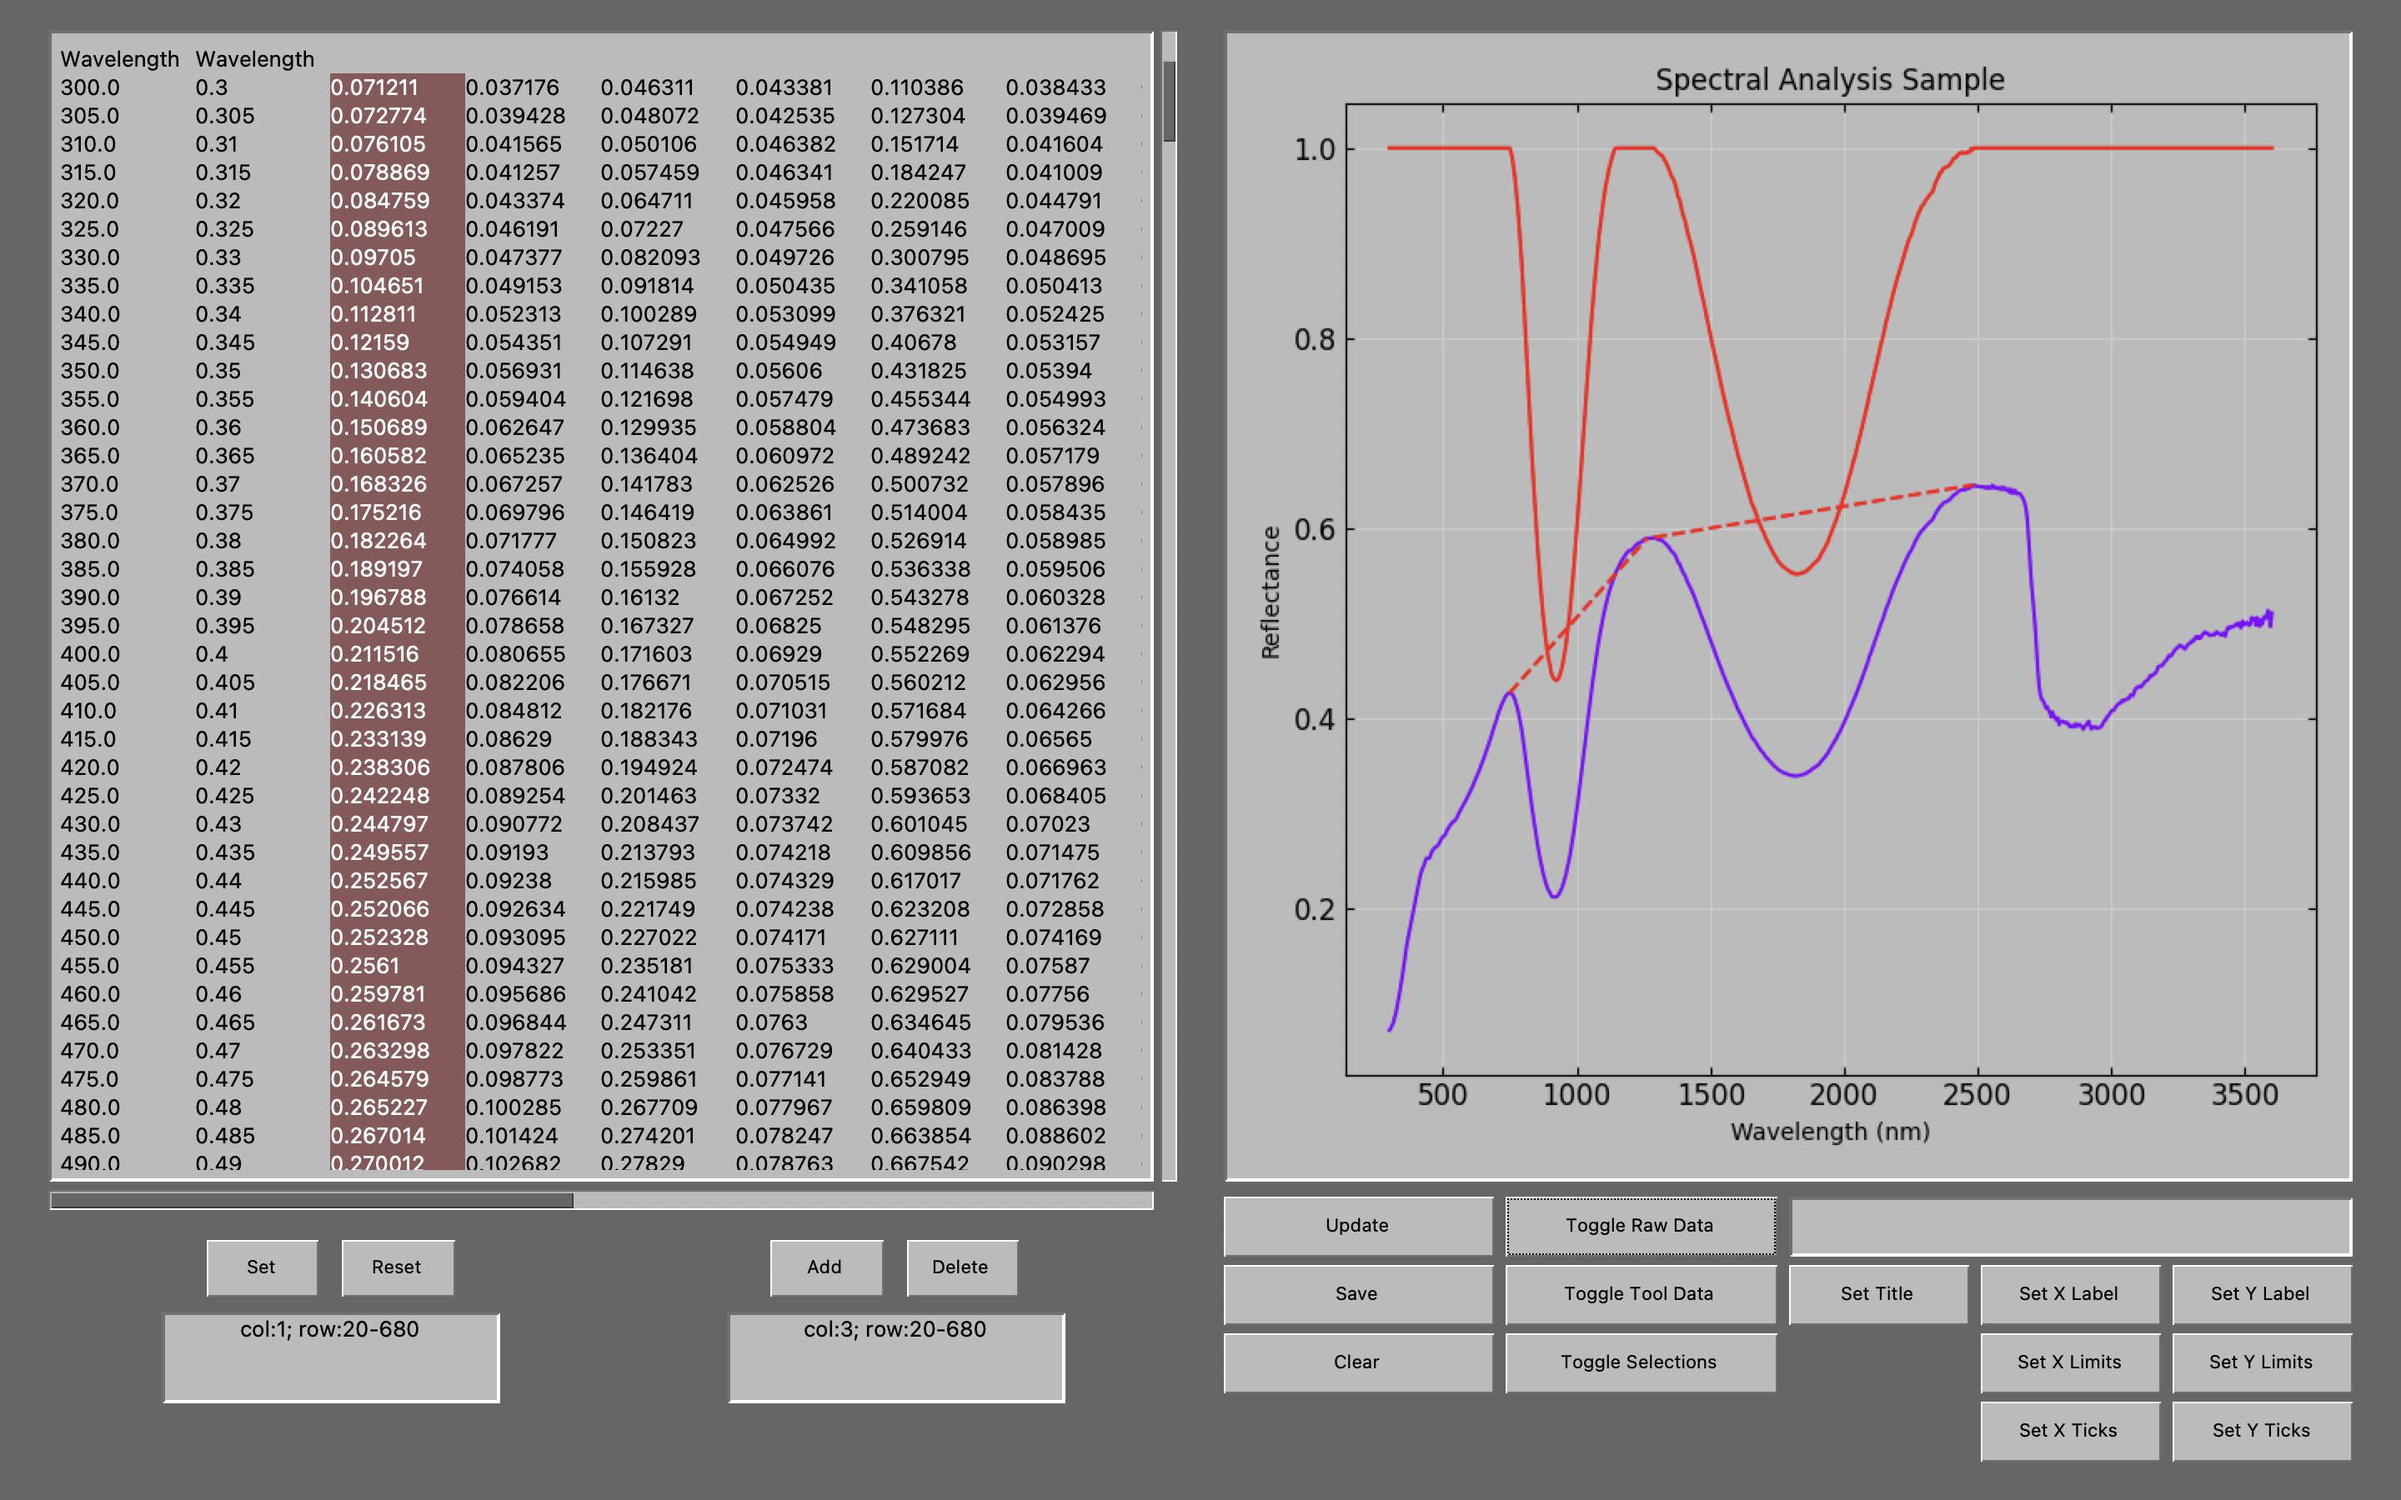
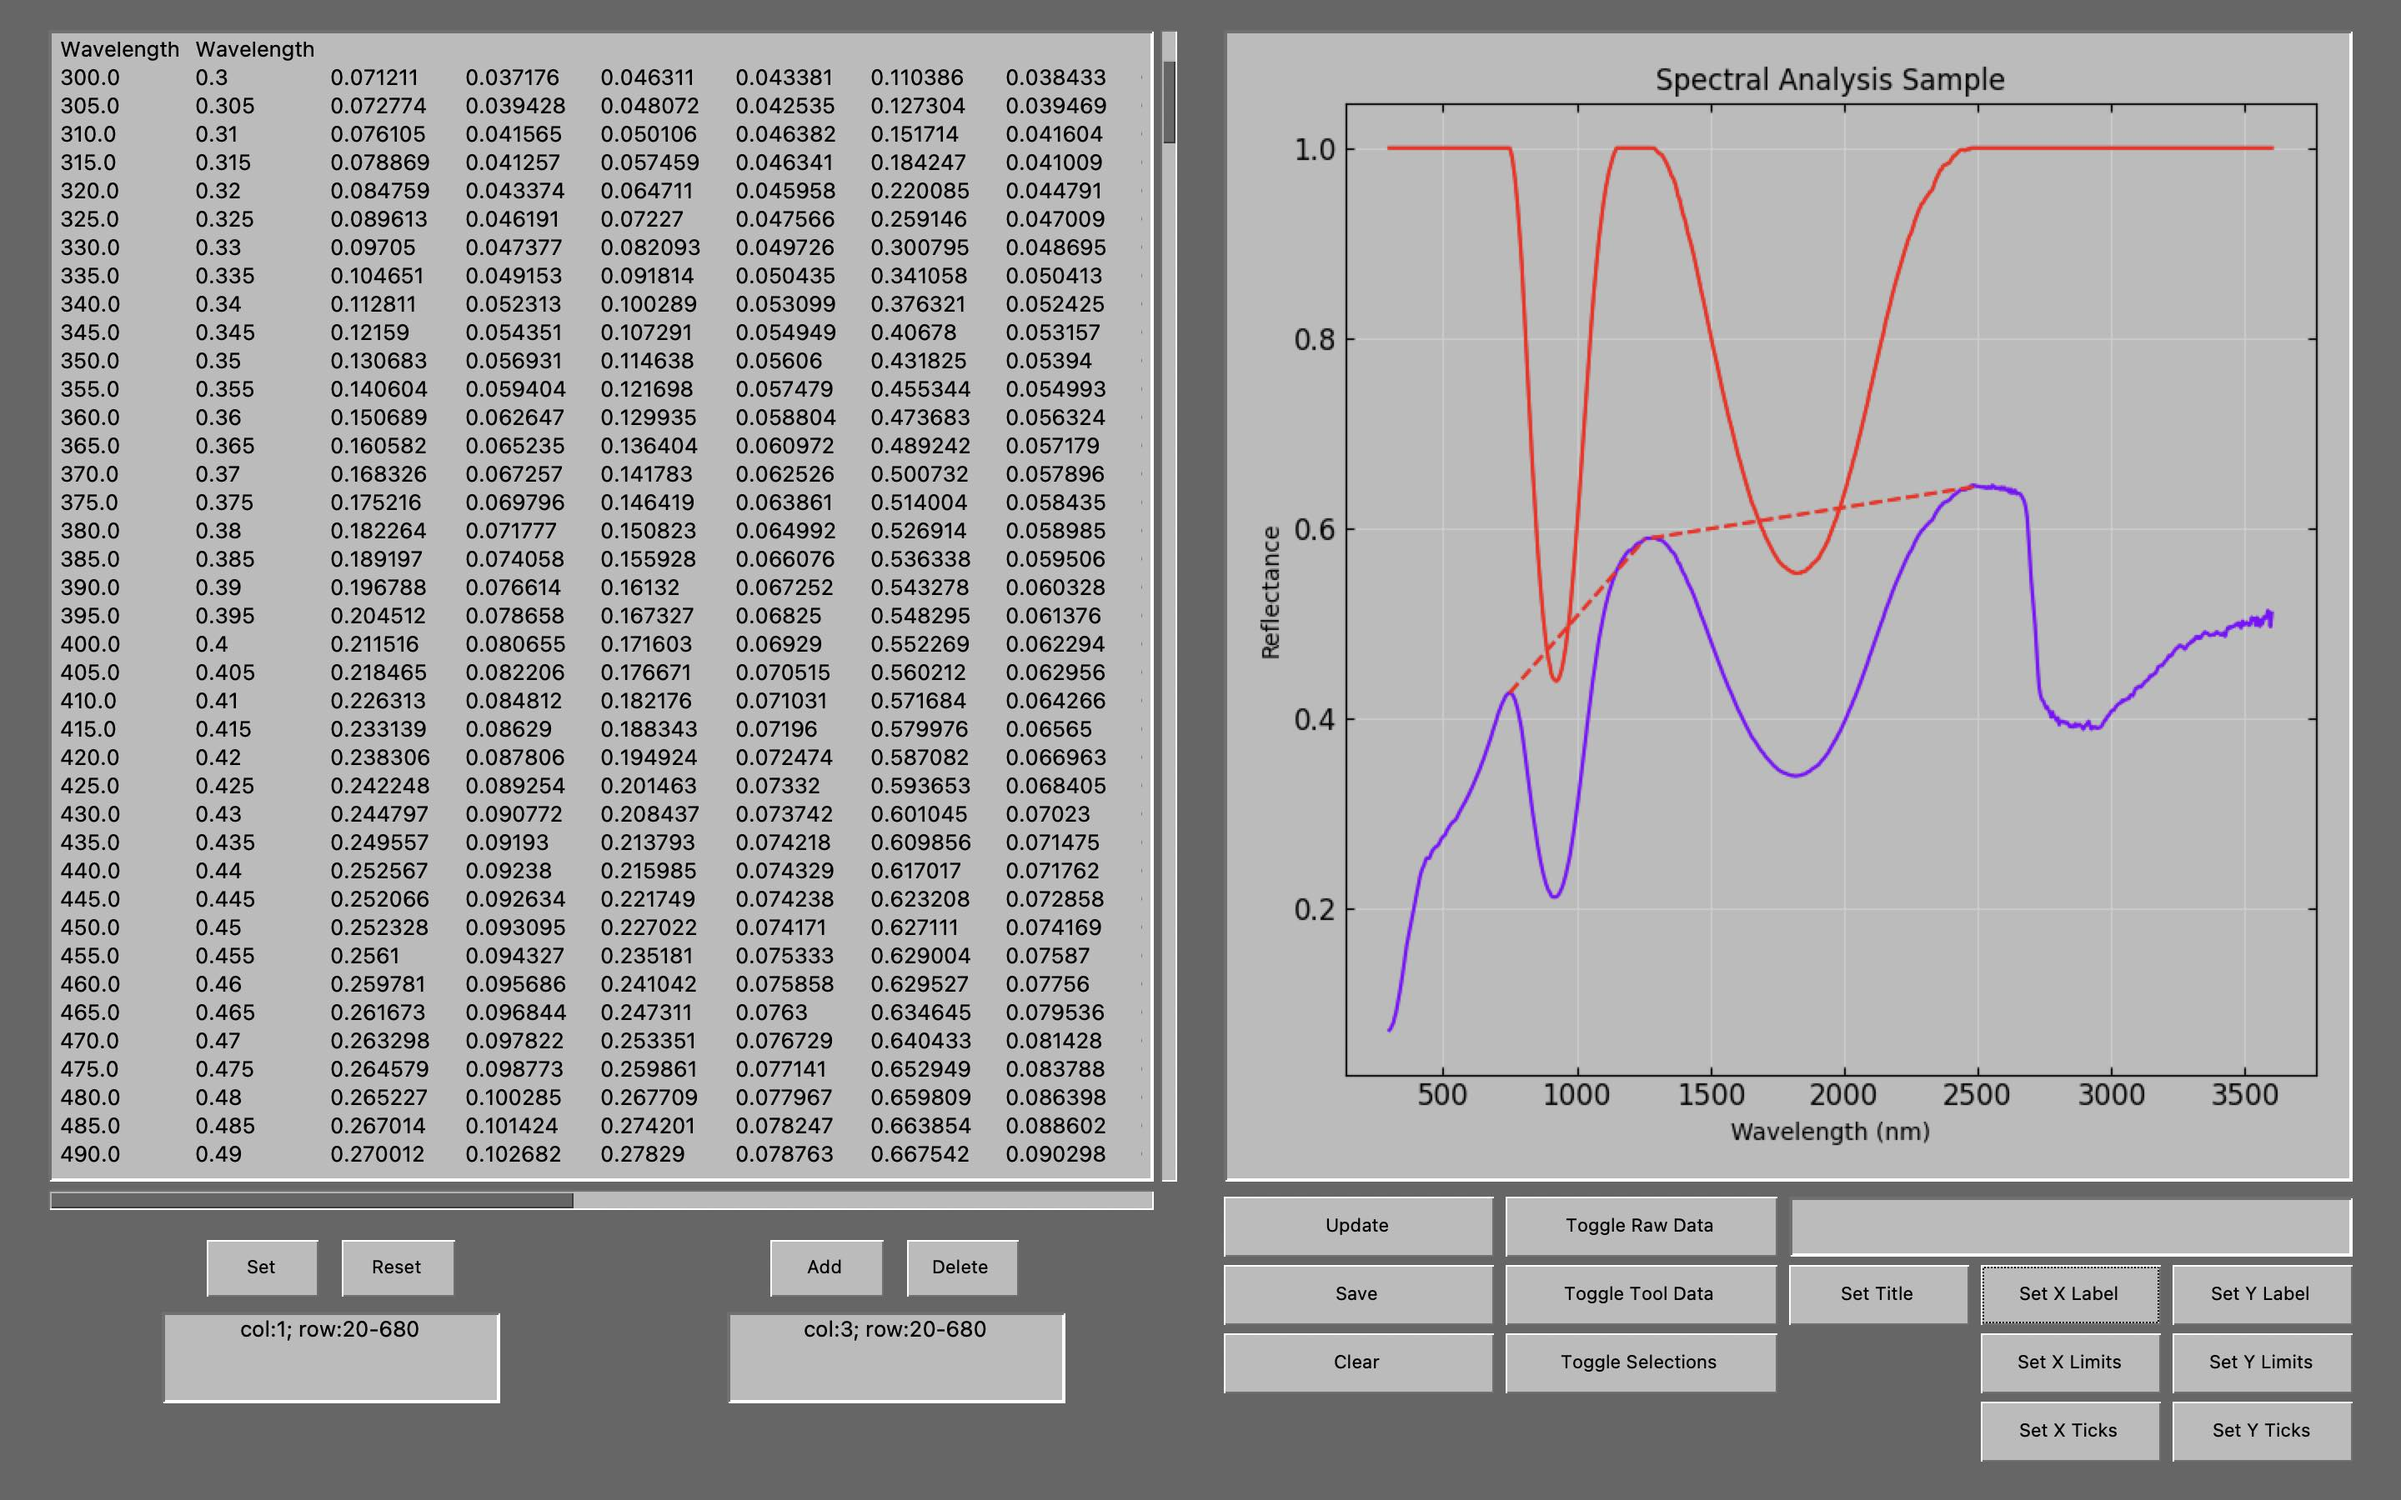
deselect listbox data on lost focus, reflect in sample image

Changed region(s): [[0.0312, 0.0311, 0.4688, 0.7778], [0.75, 0.3111, 0.8125, 0.3422], [0.7188, 0.3422, 0.75, 0.3733]]

diff --git a/classes/EmbeddedTable.py b/classes/EmbeddedTable.py
@@ -155,6 +155,7 @@ class EmbeddedTable() :
                                relief=config.relief, 
                                borderwidth=config.border_width)
         self._x_listbox.insert(0, self._x_listbox_default_string)
+        self._x_listbox.bind('<FocusOut>', lambda e: self.selection_clear(0, tk.END))
         
         # listbox for showing active y-data
         self._y_listbox = tk.Listbox(self._frame, justify=tk.CENTER, 
@@ -172,6 +173,7 @@ class EmbeddedTable() :
         self._y_listbox.bind("<ButtonRelease-1>", self._set_active_y)
         self._y_listbox.bind("<Up>", self._listbox_key_up)
         self._y_listbox.bind("<Down>", self._listbox_key_down)
+        self._y_listbox.bind('<FocusOut>', lambda e: self.selection_clear(0, tk.END))
 
         # create a canvas for holding a number of TableColumns to form a table
         self._canvas = None

diff --git a/classes/TableColumn.py b/classes/TableColumn.py
@@ -6,6 +6,7 @@
 # only adds an additional index variable to avoid unnecessary searches.
 # TODO: implement different display styles
 
+from tkinter import END
 from tkinter import Listbox as tkListbox
 import classes.config as config
 
@@ -18,7 +19,9 @@ class TableColumn(tkListbox):
                     borderwidth=0,
                     highlightthickness=0,
                     xscrollcommand=None)
+        self.bind('<FocusOut>', lambda e: self.selection_clear(0, END))
         self._index = index
+
 
     def get_index(self):
         return self._index
